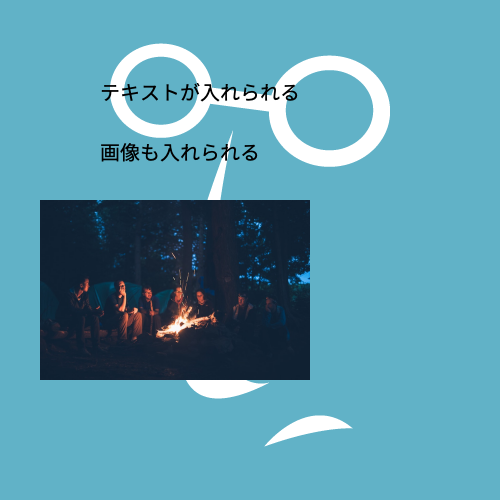
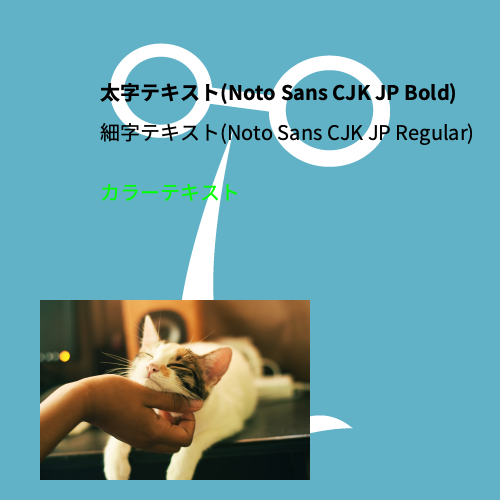
Add sample of some text paterns

diff --git a/generate.rb b/generate.rb
@@ -12,13 +12,17 @@ surface = Cairo::ImageSurface.from_png(base_image)
 context = Cairo::Context.new(surface)
 
 context.move_to(100, 100)
-context.select_font_face('Noto Sans CJK JP Regular')
+context.select_font_face('Noto Sans CJK JP Bold')
 context.set_font_size(20)
-context.show_text('テキストが入れられる')
-context.move_to(100, 160)
-context.show_text('画像も入れられる')
+context.show_text('太字テキスト(Noto Sans CJK JP Bold)')
+context.move_to(100, 140)
+context.select_font_face('Noto Sans CJK JP Regular')
+context.show_text('細字テキスト(Noto Sans CJK JP Regular)')
+context.move_to(100, 200)
+context.set_source_color(Cairo::Color::GREEN)
+context.show_text('カラーテキスト')
 
-context.translate(40, 200)
+context.translate(40, 300)
 context.set_source_pixbuf(pixbuf)
 context.paint
 

diff --git a/README.md b/README.md
@@ -4,12 +4,16 @@ Sample of generating image by Ruby
 ---
 
 ## Getting Started
-Install gem
+### Install gem
 ```
 $ gem install gdk3
+$ gem install atk
 ```
 (confirmed with gdk3-3.3.2)
 
+### Install font
+Noto Sans CJK JP  
+https://www.google.com/get/noto/#sans-jpan
 
 ## Generate Image
 ```
